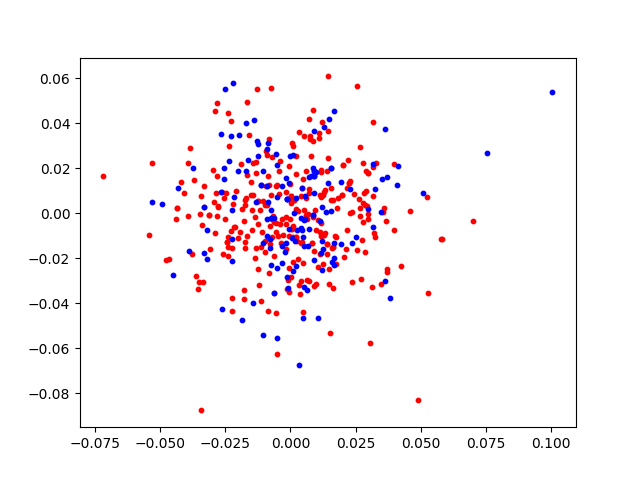
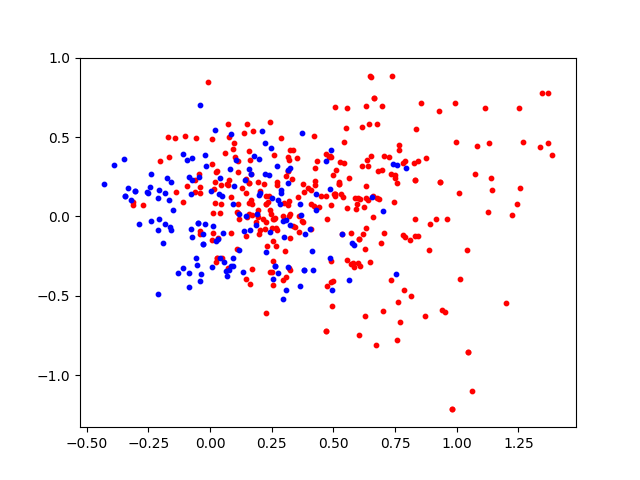
Fixed PCA

diff --git a/labelling/logistic-regression.py b/labelling/logistic-regression.py
@@ -14,6 +14,7 @@ import numpy as np
 
 import matplotlib.pyplot as plt
 from matplotlib.ticker import ScalarFormatter
+from mpl_toolkits.mplot3d import Axes3D
 
 #
 # Set up environment
@@ -76,18 +77,40 @@ for predictors, label in dataset.take(5):
 
 #print(tft.pca(pd.DataFrame(df.text.tolist()).to_numpy()))
 data = pd.DataFrame(df.text.tolist()).to_numpy()
-eigen_values, eigen_vectors = tf.linalg.eigh(tf.tensordot(tf.transpose(data), data, axes=1))
 
-new_data = tf.transpose(tf.tensordot(tf.transpose(eigen_vectors), tf.transpose(data), axes=1)).numpy()
+print(data.shape)
+covariance = np.cov(np.transpose(data))
+
+print(covariance.shape)
+
+eigen_values, eigen_vectors = np.linalg.eig(covariance)
+
+eigen_vectors = eigen_vectors[:, :3]
+
+print(f"Eigenvectors shape: {eigen_vectors.shape}")
+print(f"Data sgape: {data.shape}")
+
+new_data = np.matmul(data, eigen_vectors)
+
+print(f"PC shape: {new_data.shape}")
+
+
+fig = plt.figure()
+ax = fig.add_subplot(111, projection='3d')
+
+#ddf
+#eigen_values, eigen_vectors = tf.linalg.eigh(tf.tensordot(tf.transpose(data), data, axes=1))
+
+#new_data = tf.transpose(tf.tensordot(tf.transpose(eigen_vectors), tf.transpose(data), axes=1)).numpy()
 for i, vector in enumerate(new_data):
 	if df[dummy_columns[0]][i] == 1:
-		plt.scatter(vector[0], vector[1], s = 10, c = ['red'])
+		ax.scatter(vector[0], vector[1], vector[2], s = 10, c = ['red'])
 
 for i, vector in enumerate(new_data):
 	if df[dummy_columns[0]][i] != 1:
-		plt.scatter(vector[0], vector[1], s = 10, c = ['blue'])
+		ax.scatter(vector[0], vector[1], vector[2], s = 10, c = ['blue'])
 
-plt.savefig(os.path.join(PATH_TO_IMAGES, f'pca.png'))
+plt.savefig(os.path.join(PATH_TO_IMAGES, f'pca3d.png'))
 #print(new_data[0])
 
 # Numberize labels
